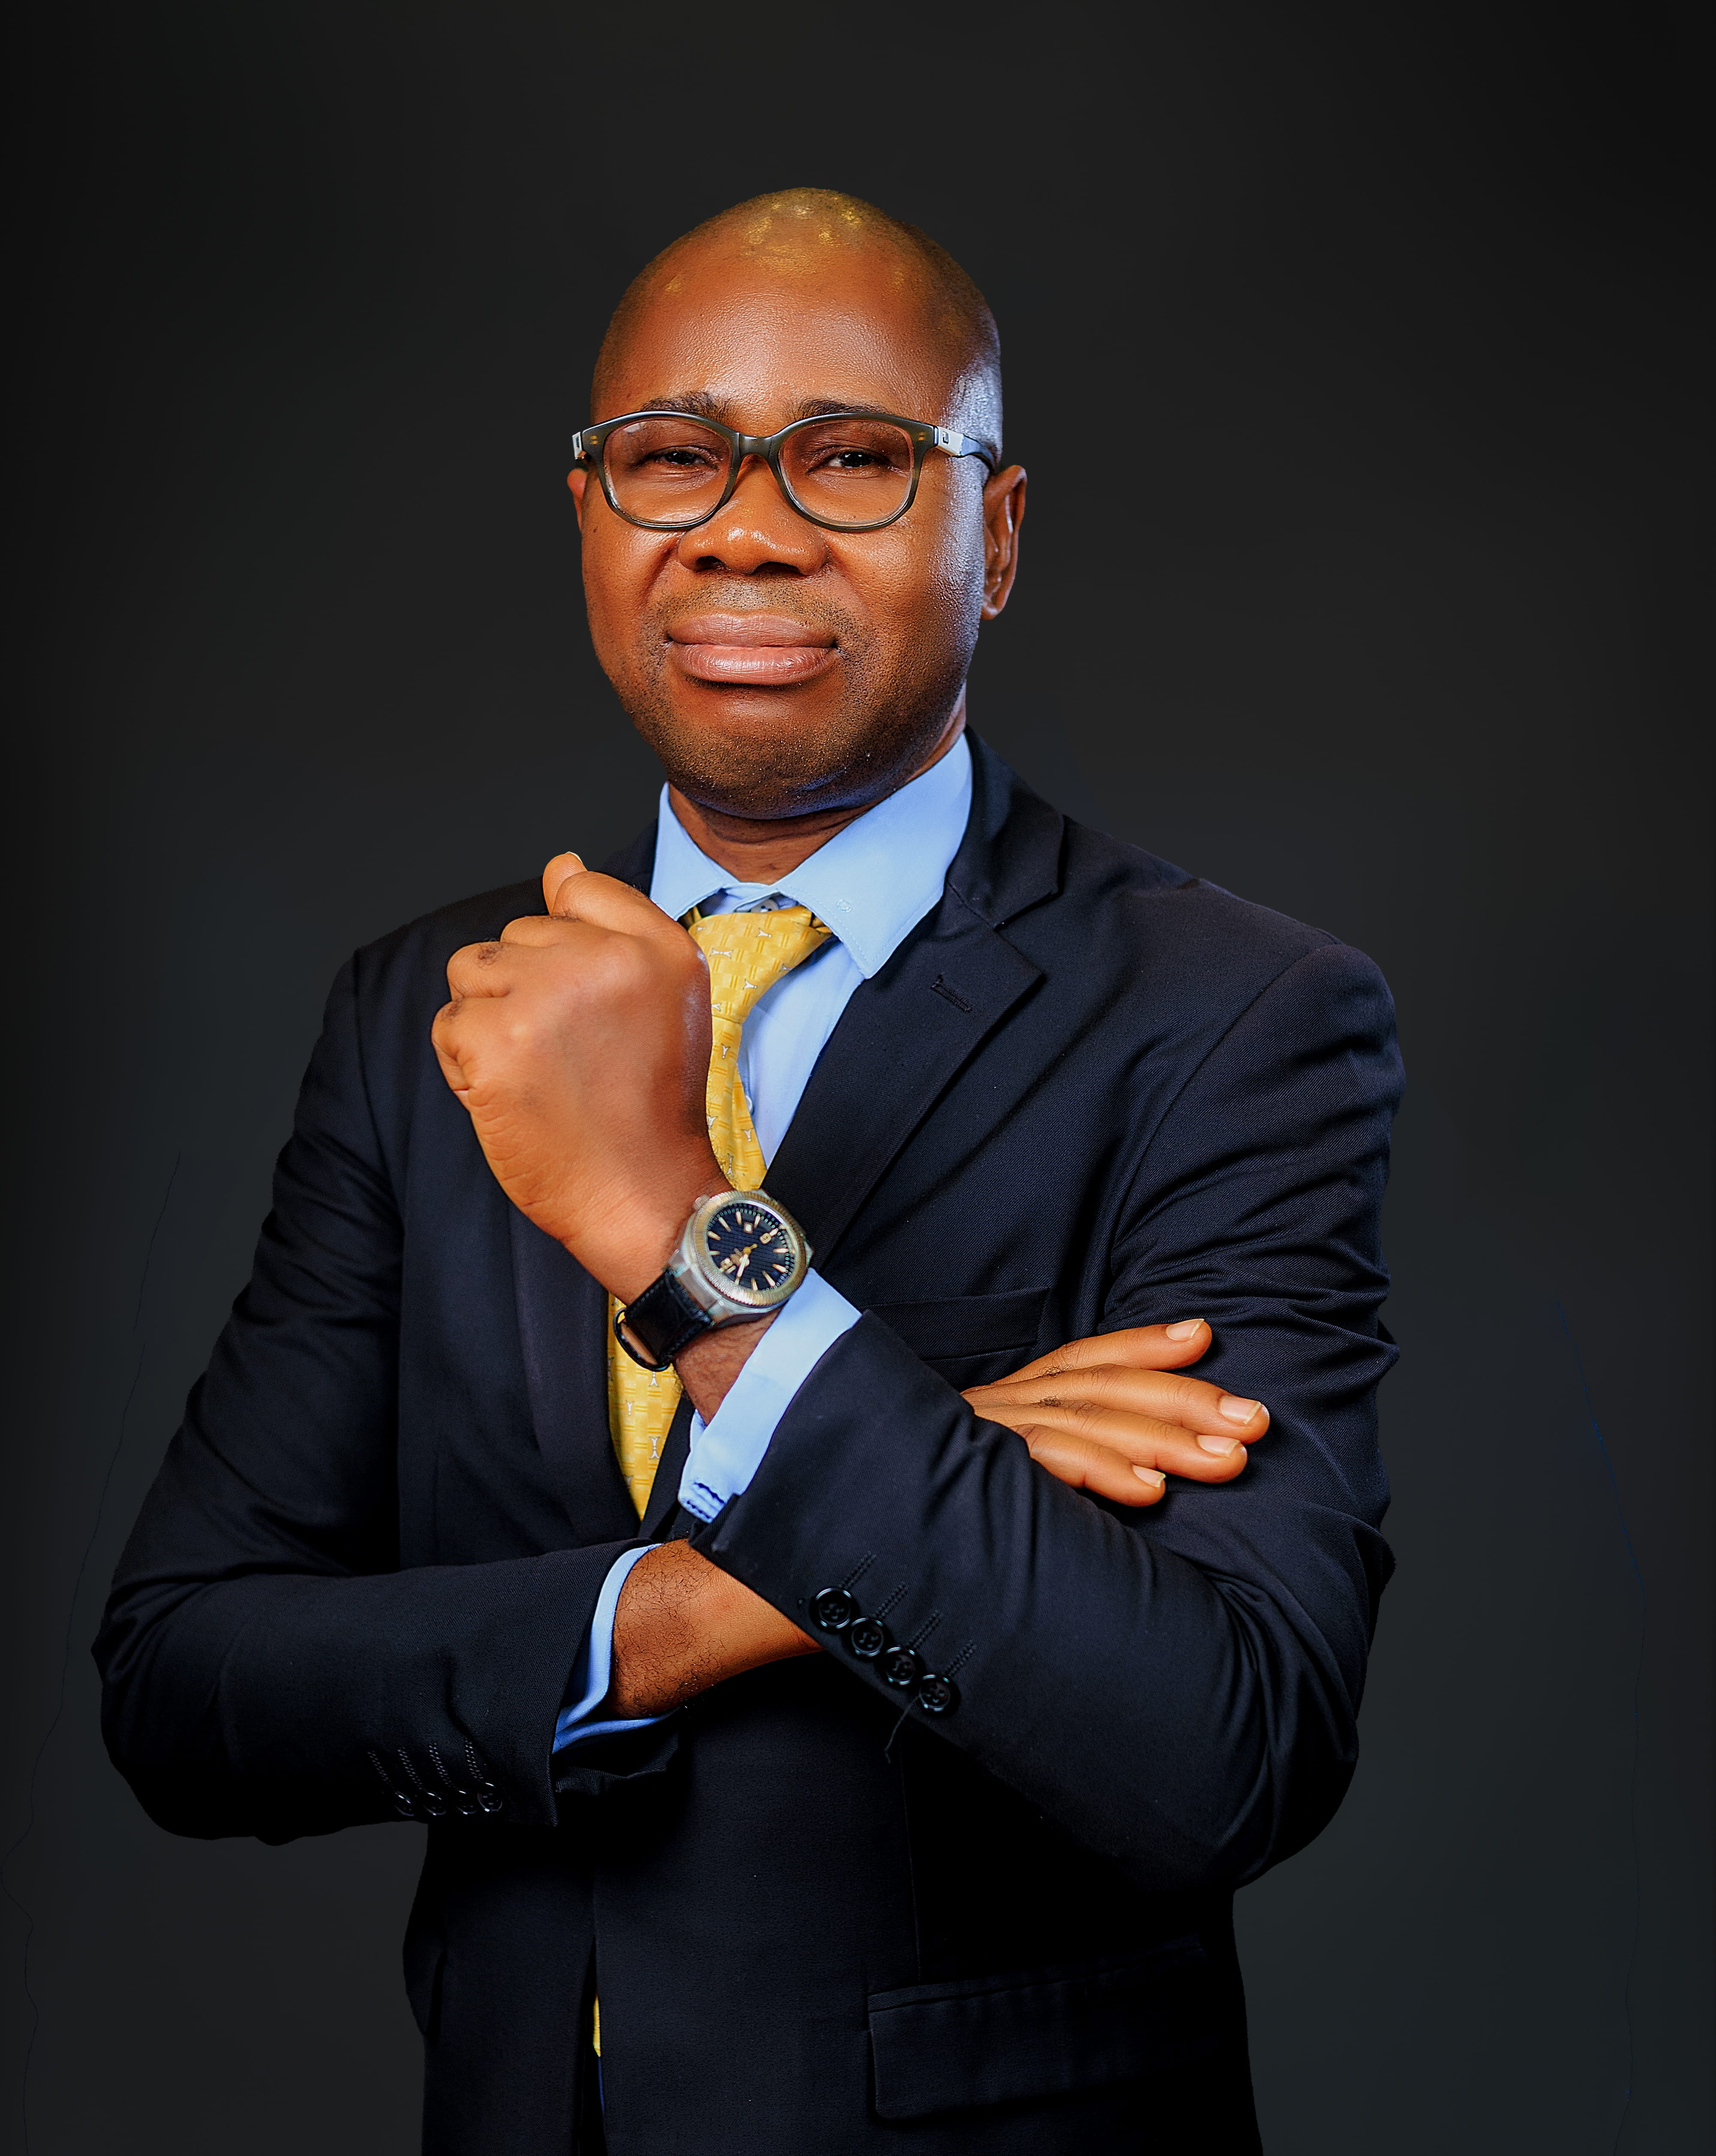
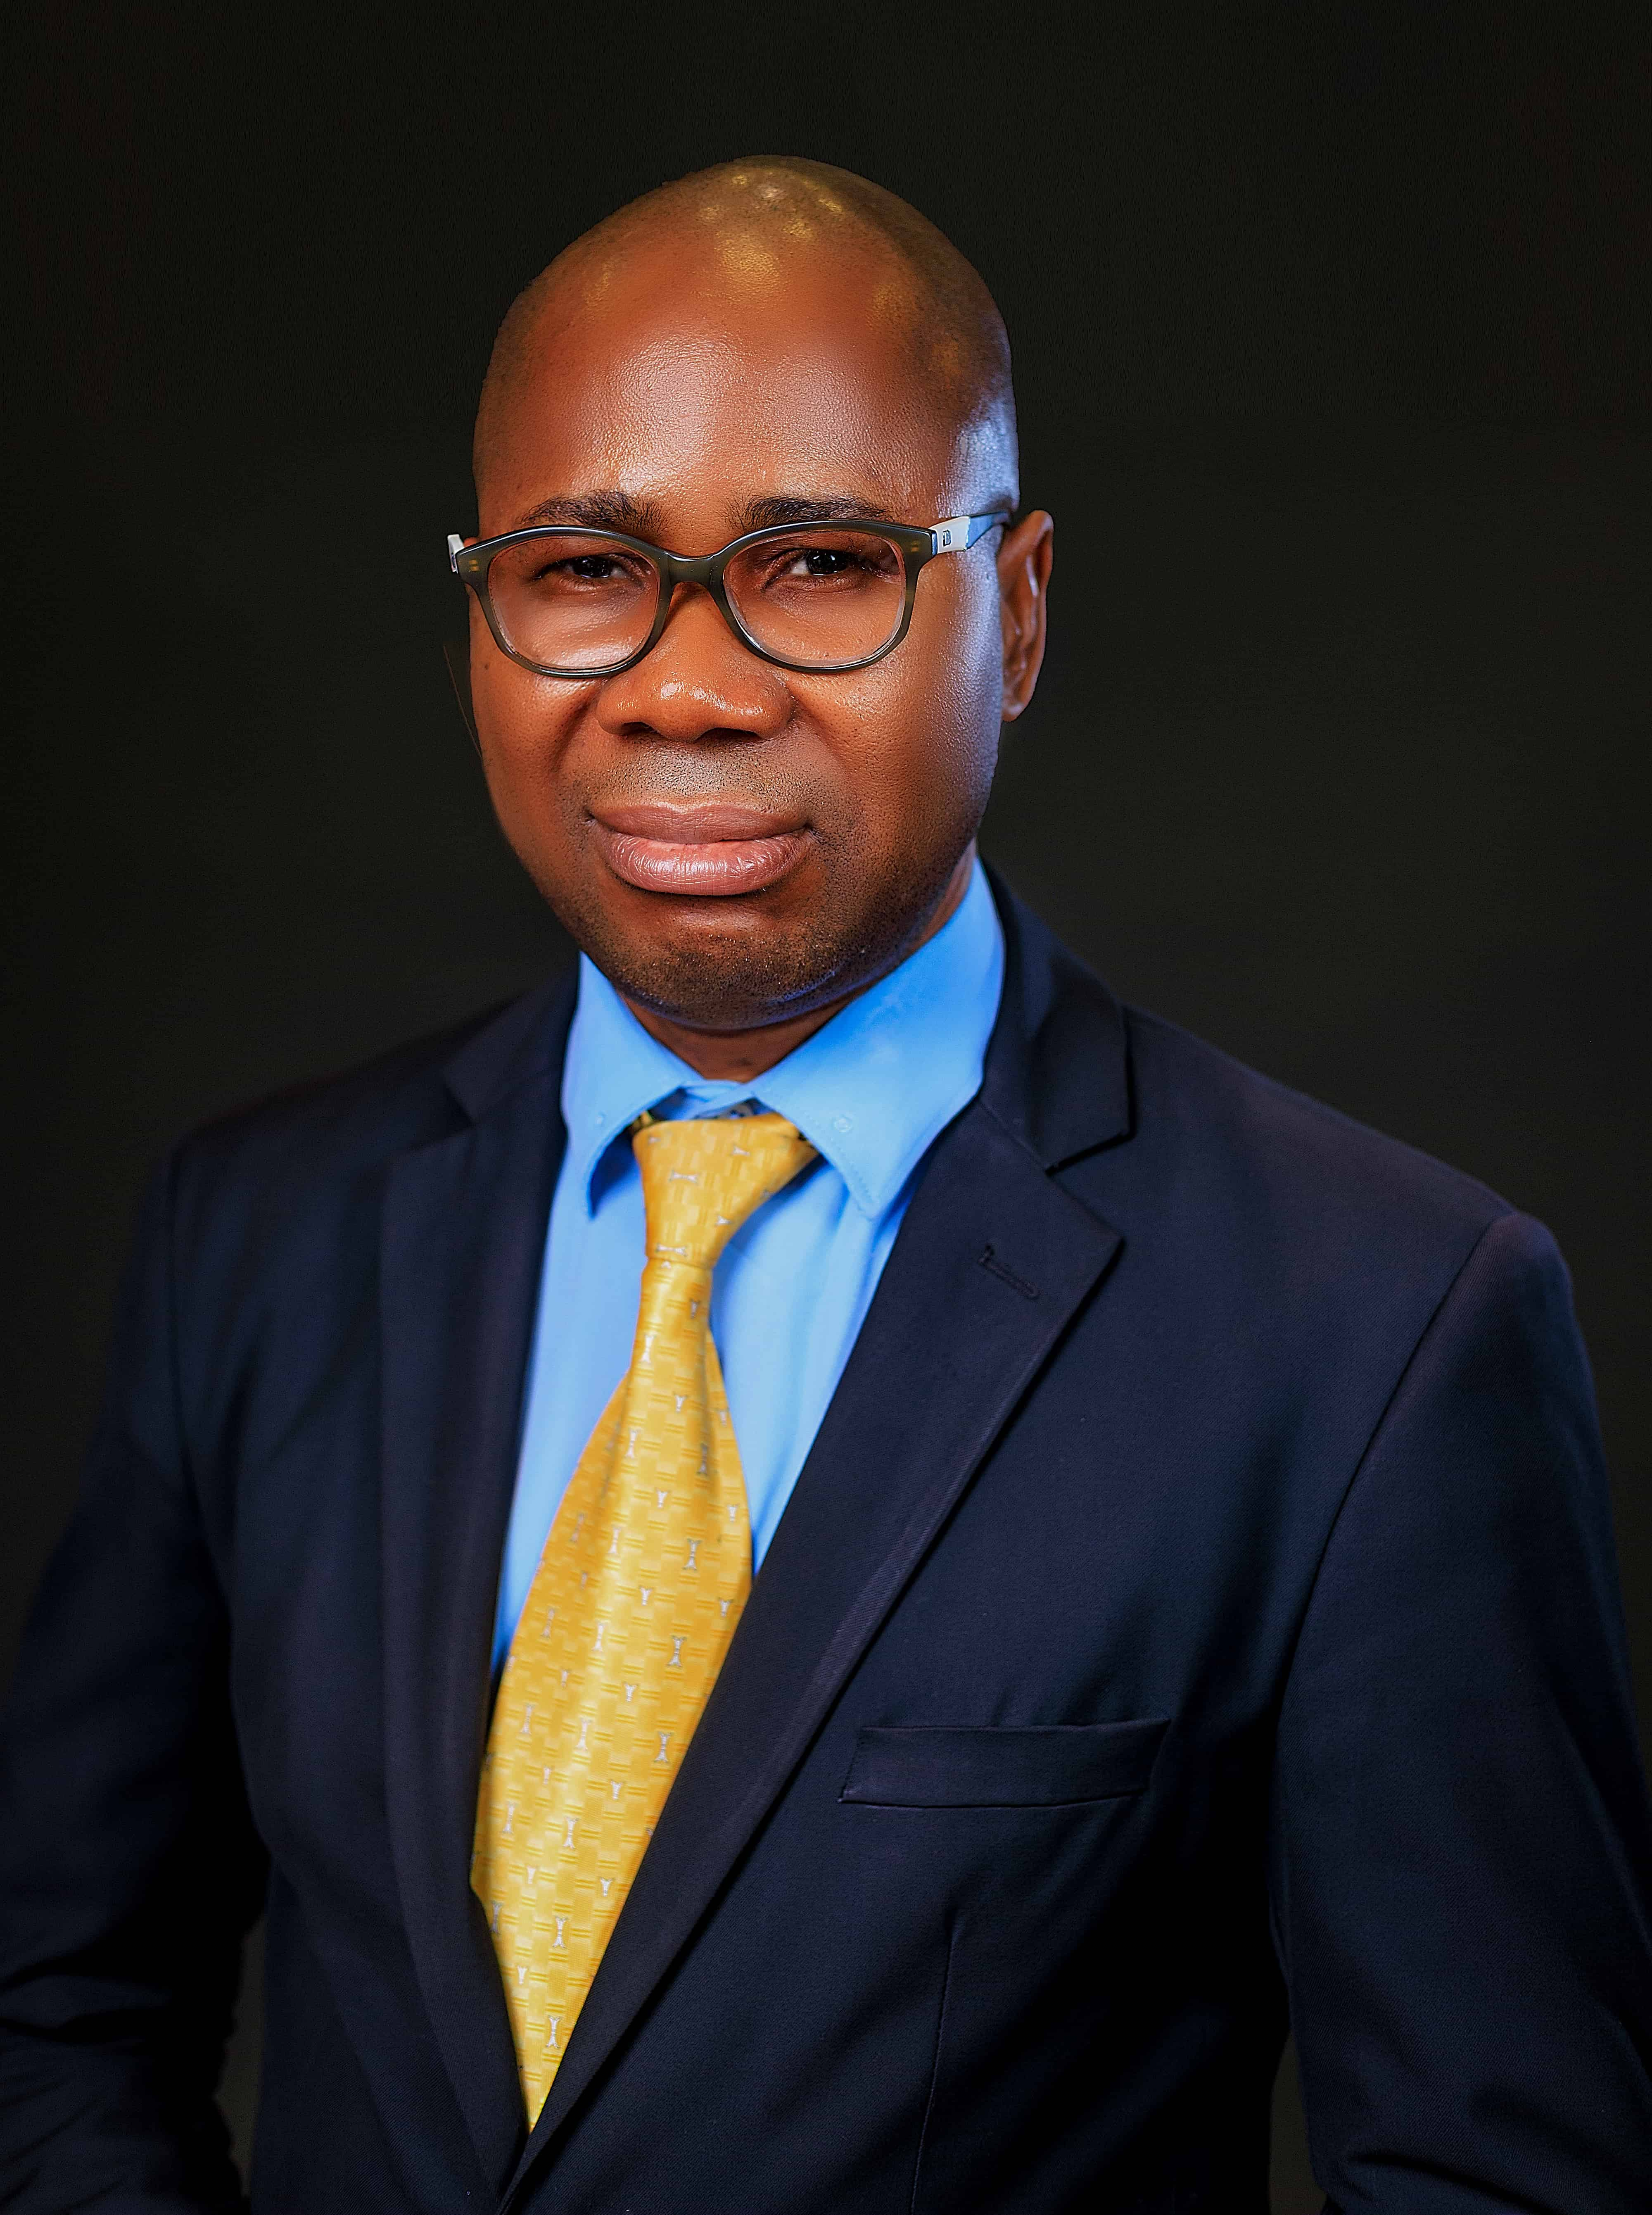
put all pictures

diff --git a/src/Pages/Packaging.jsx b/src/Pages/Packaging.jsx
@@ -18,7 +18,7 @@ const Packaging = () => {
       <PageHero
         title="Packaging"
         highlight="Solutions"
-        image="/zitelle pictures/lab3.jpg"
+        image="/zitelle/rubber2.jpg"
         breadcrumb={
           <>
             <span className="page-hero__crumb">Home /</span>
@@ -36,7 +36,7 @@ const Packaging = () => {
         Our jerrycans are designed for practical handling, storage, and transportation of liquid products, making them suitable for businesses, distributors, manufacturers, and bulk packaging customers. 
 
         "
-        image="/zitelle pictures/lab4.jpg"
+        image="/zitelle/rubber1.jpg"
         primaryText="Request A Quote"
         primaryLink="/contact"
         secondaryText="Speak To Sales"
@@ -53,7 +53,7 @@ const Packaging = () => {
             name: "4 Litres ",
             description:
               "Durable food-grade plastic container suitable for oil and liquid products.",
-            image: "/zitelle pictures/4 litres.jpg",
+            image: "/zitelle/4 litres.jpg",
             link: "/contact",
           },
 
@@ -63,7 +63,7 @@ const Packaging = () => {
             name: "9 Litres",
             description:
               "Strong and reliable packaging solution for cooking oil distribution.",
-            image: "/zitelle pictures/10litres.jpg",
+            image: "/zitelle/10litres.jpg",
             link: "/contact",
           },
 
@@ -73,7 +73,7 @@ const Packaging = () => {
             name: "18 Litres",
             description:
               "Heavy-duty plastic container for commercial and industrial use.",
-            image: "/zitelle pictures/18litres.jpg",
+            image: "/zitelle/18litres.jpg",
             link: "/contact",
           },
 
@@ -83,7 +83,7 @@ const Packaging = () => {
             name: "25 Litre",
             description:
               "Large-capacity packaging designed for bulk storage and transportation.",
-            image: "/zitelle pictures/25litres.png",
+            image: "/zitelle/25litres.png",
             link: "/contact",
           },
         ]}
@@ -92,7 +92,7 @@ const Packaging = () => {
       <WhoWeServe
         label="Who We Serve"
         title="Packaging For Businesses That Deliver"
-        image="/zitelle pictures/10litres.jpg"
+        image="/zitelle/rubber3.jpg"
         items={[
           {
             icon: <Droplets size={20} />,

diff --git a/src/Pages/WhyUs.jsx b/src/Pages/WhyUs.jsx
@@ -46,7 +46,7 @@ const WhyUs = () => {
         text="Zitelle provides reliable manufacturing and distribution support for retailers, wholesalers, and commercial partners. Our systems are built to ensure consistent supply, quality production, and timely delivery across all product lines. We focus on building long-term partnerships through trust, efficiency, and scalable operations."
         buttonLink="/contact"
         buttonText="Contact Us"
-        image="/zitelle pictures/machine4.jpg"
+        image="/zitelle/machine4.jpg"
       />
     </>
   );